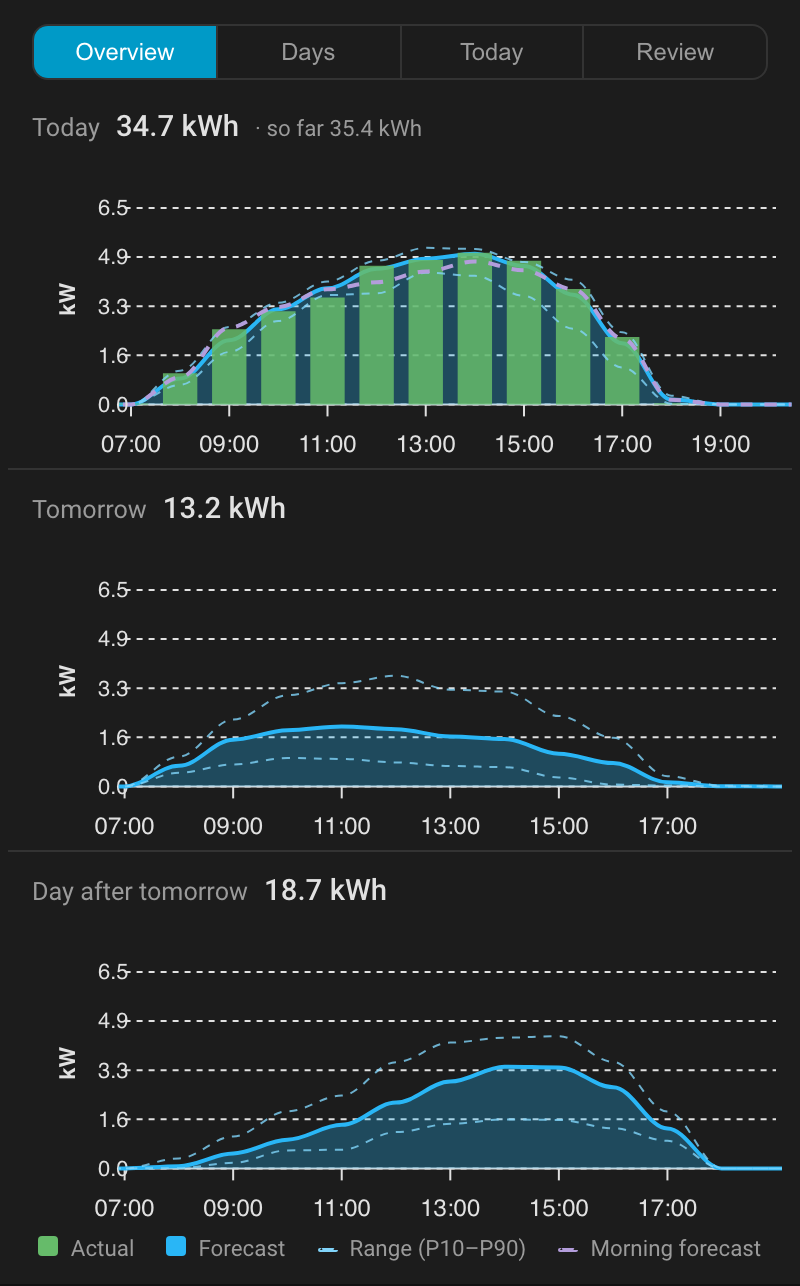
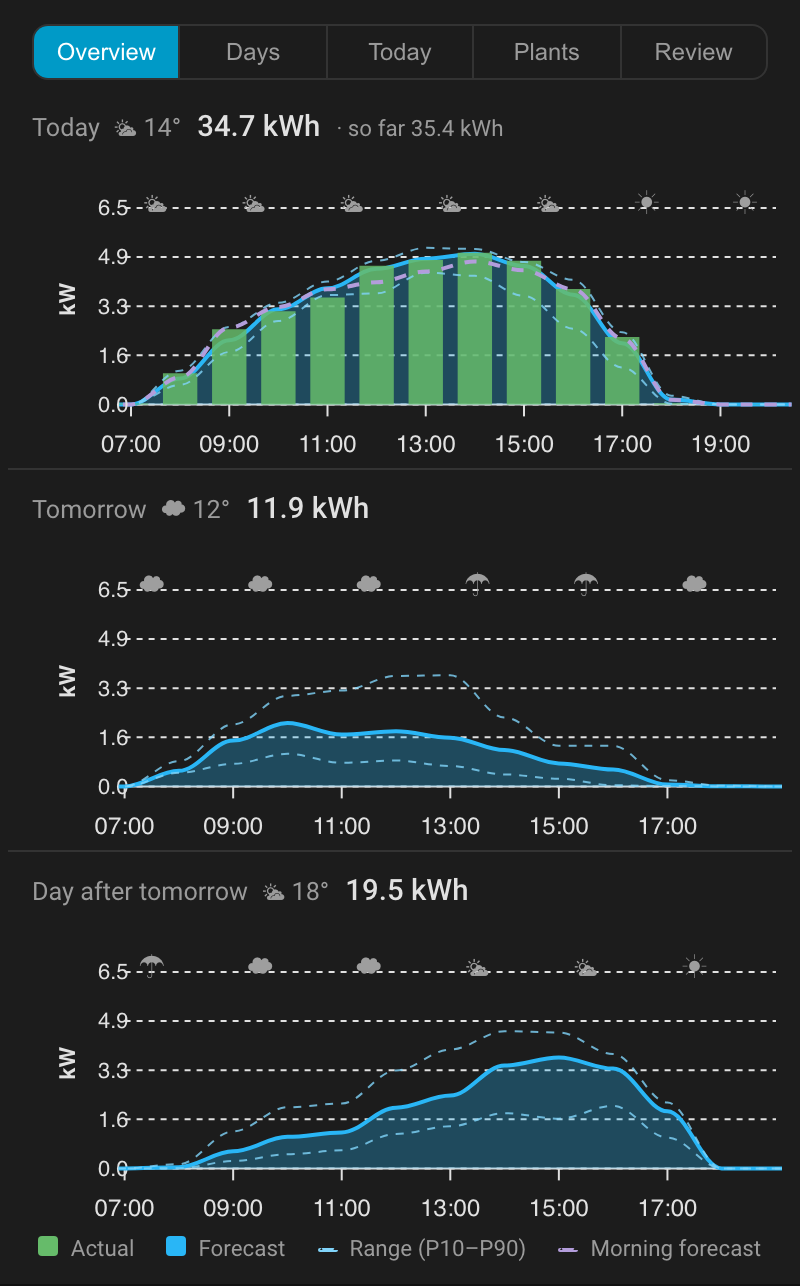
fix: stack the plants view, weather symbols below day labels; README screenshots; release 0.5.1

diff --git a/custom_components/ml_pv_forecast/cards/ml-pv-forecast-card.js b/custom_components/ml_pv_forecast/cards/ml-pv-forecast-card.js
@@ -111,6 +111,16 @@ const GEN = {
       .map(r => [new Date(r.time).getTime(), r.${key} / 1000]);`,
   morning: hourlyAverage("entity.attributes.morning", "p50"),
   actual: hourlyAverage("entity.attributes.actual", "w"),
+  // Sum of the hourly P50 of several plants (apexcharts-card passes `hass` to generators).
+  stacked: (ids) => `
+    const sums = {};
+    for (const id of ${JSON.stringify(ids)}) {
+      (hass.states[id]?.attributes.hourly || []).forEach(r => {
+        const t = new Date(r.time).getTime();
+        sums[t] = (sums[t] || 0) + r.p50 / 1000;
+      });
+    }
+    return Object.entries(sums).map(([t, v]) => [Number(t), v]).sort((a, b) => a[0] - b[0]);`,
   review: (index, key) => `
     const day = (entity.attributes.review || [])[${index}];
     if (!day) return [];
@@ -147,7 +157,7 @@ function dayWeather(hourly, dayStart) {
 }
 
 // Small grey weather symbols along the top of a chart, every `step` hours within [from, to).
-function weatherMarks(hourly, from, to, step) {
+function weatherMarks(hourly, from, to, step, offsetY = -2) {
   return (hourly || [])
     .filter((r) => {
       const t = new Date(r.time).getTime();
@@ -161,7 +171,7 @@ function weatherMarks(hourly, from, to, step) {
         orientation: "horizontal",
         position: "top",
         textAnchor: "middle",
-        offsetY: -2,
+        offsetY,
         borderWidth: 0,
         style: { background: "transparent", color: "#9E9E9E", fontSize: "13px" },
       },
@@ -816,7 +826,8 @@ MlPvForecastCard.prototype._timelineSpec = function (entity, state, t) {
     ],
   });
   const daylight = (a.hourly || []).filter((r) => r.p50 > 0);
-  const weatherAnnotations = weatherMarks(daylight, localMidnight(), localMidnight(this._config.days), 3);
+  // one row below the day labels, so they never overlap
+  const weatherAnnotations = weatherMarks(daylight, localMidnight(), localMidnight(this._config.days), 3, 16);
   config.apex_config.annotations = { xaxis: [...marks, ...weatherAnnotations] };
   config.apex_config.xaxis = {
     labels: { datetimeUTC: false, format: "HH:mm" },
@@ -885,18 +896,29 @@ MlPvForecastCard.prototype._plantsSpec = function (t) {
     yAxis: true,
     now: true,
     height: 260,
-    series: plants.map((p, i) =>
-      this._series(p.entity_id, p.attributes.plant, PLANT_COLORS[i % PLANT_COLORS.length], GEN.hourly("p50"), {
-        type: "area",
-        opacity: 0.6,
-        stroke_width: 1,
-      })
-    ),
+    // Stacked by hand: series i shows the sum of plants 0..i. Drawn from the largest sum down, so
+    // each plant's band sits on top of the ones before it.
+    series: plants
+      .map((p, i) =>
+        this._series(p.entity_id, p.attributes.plant, PLANT_COLORS[i % PLANT_COLORS.length], GEN.stacked(plants.slice(0, i + 1).map((q) => q.entity_id)), {
+          type: "area",
+          opacity: 0.85,
+          stroke_width: 1,
+        })
+      )
+      .reverse(),
   });
-  config.stacked = true;
+  // The tooltip shows each plant's own power: its sum minus the sum below it (next series).
+  config.apex_config.tooltip = {
+    x: { format: "ddd HH:mm" },
+    y: {
+      formatter:
+        "EVAL:function(value, { seriesIndex, dataPointIndex, w }) { const below = w.globals.series[seriesIndex + 1]; const own = value - (below ? below[dataPointIndex] || 0 : 0); return own.toFixed(2) + ' kW'; }",
+    },
+  };
   const daylight = hourly(plants[0]).filter((r) => r.p50 > 0);
   config.apex_config.annotations = {
-    xaxis: [...marks, ...weatherMarks(daylight, localMidnight(), localMidnight(this._config.days), 3)],
+    xaxis: [...marks, ...weatherMarks(daylight, localMidnight(), localMidnight(this._config.days), 3, 16)],
   };
   config.apex_config.xaxis = {
     labels: { datetimeUTC: false, format: "HH:mm" },

diff --git a/README.md b/README.md
@@ -185,8 +185,10 @@ Five views, switched with the tabs at the top of the card:
 | Overview, one chart per day | `layout: timeline`, all days in one chart |
 |---|---|
 | ![Overview](https://raw.githubusercontent.com/dominikamann/ha-machine-learning-based-pv-forecast/main/images/overview.png) | ![Timeline](https://raw.githubusercontent.com/dominikamann/ha-machine-learning-based-pv-forecast/main/images/timeline.png) |
-| **Days** – one day at a time, rotating | **On a phone** |
-| ![Days](https://raw.githubusercontent.com/dominikamann/ha-machine-learning-based-pv-forecast/main/images/days.png) | ![Phone](https://raw.githubusercontent.com/dominikamann/ha-machine-learning-based-pv-forecast/main/images/overview-mobile.png) |
+| **Days** – one day at a time, rotating | **Plants** – per plant, stacked, with totals |
+| ![Days](https://raw.githubusercontent.com/dominikamann/ha-machine-learning-based-pv-forecast/main/images/days.png) | ![Plants](https://raw.githubusercontent.com/dominikamann/ha-machine-learning-based-pv-forecast/main/images/plants.png) |
+| **On a phone** | |
+| ![Phone](https://raw.githubusercontent.com/dominikamann/ha-machine-learning-based-pv-forecast/main/images/overview-mobile.png) | |
 
 Want separate cards instead? Use one card per view with `view:` and `tabs: false`. The card is
 also in the card picker as **PV Forecast**. Actual production of the last 10 days is taken from

diff --git a/CHANGELOG.md b/CHANGELOG.md
@@ -1,5 +1,13 @@
 # Changelog
 
+## 0.5.1 – 2026-10-12
+
+- Card: the Plants view now really stacks the plants (each band sits on the plants before it;
+  the tooltip shows each plant's own power).
+- Card: weather symbols one row below the day labels in continuous charts, so they no longer
+  overlap.
+- README screenshots with weather symbols and the Plants view.
+
 ## 0.5.0 – 2026-10-12
 
 - Card: the weather in a subtle way – prevailing weather and highest temperature next to each day,
